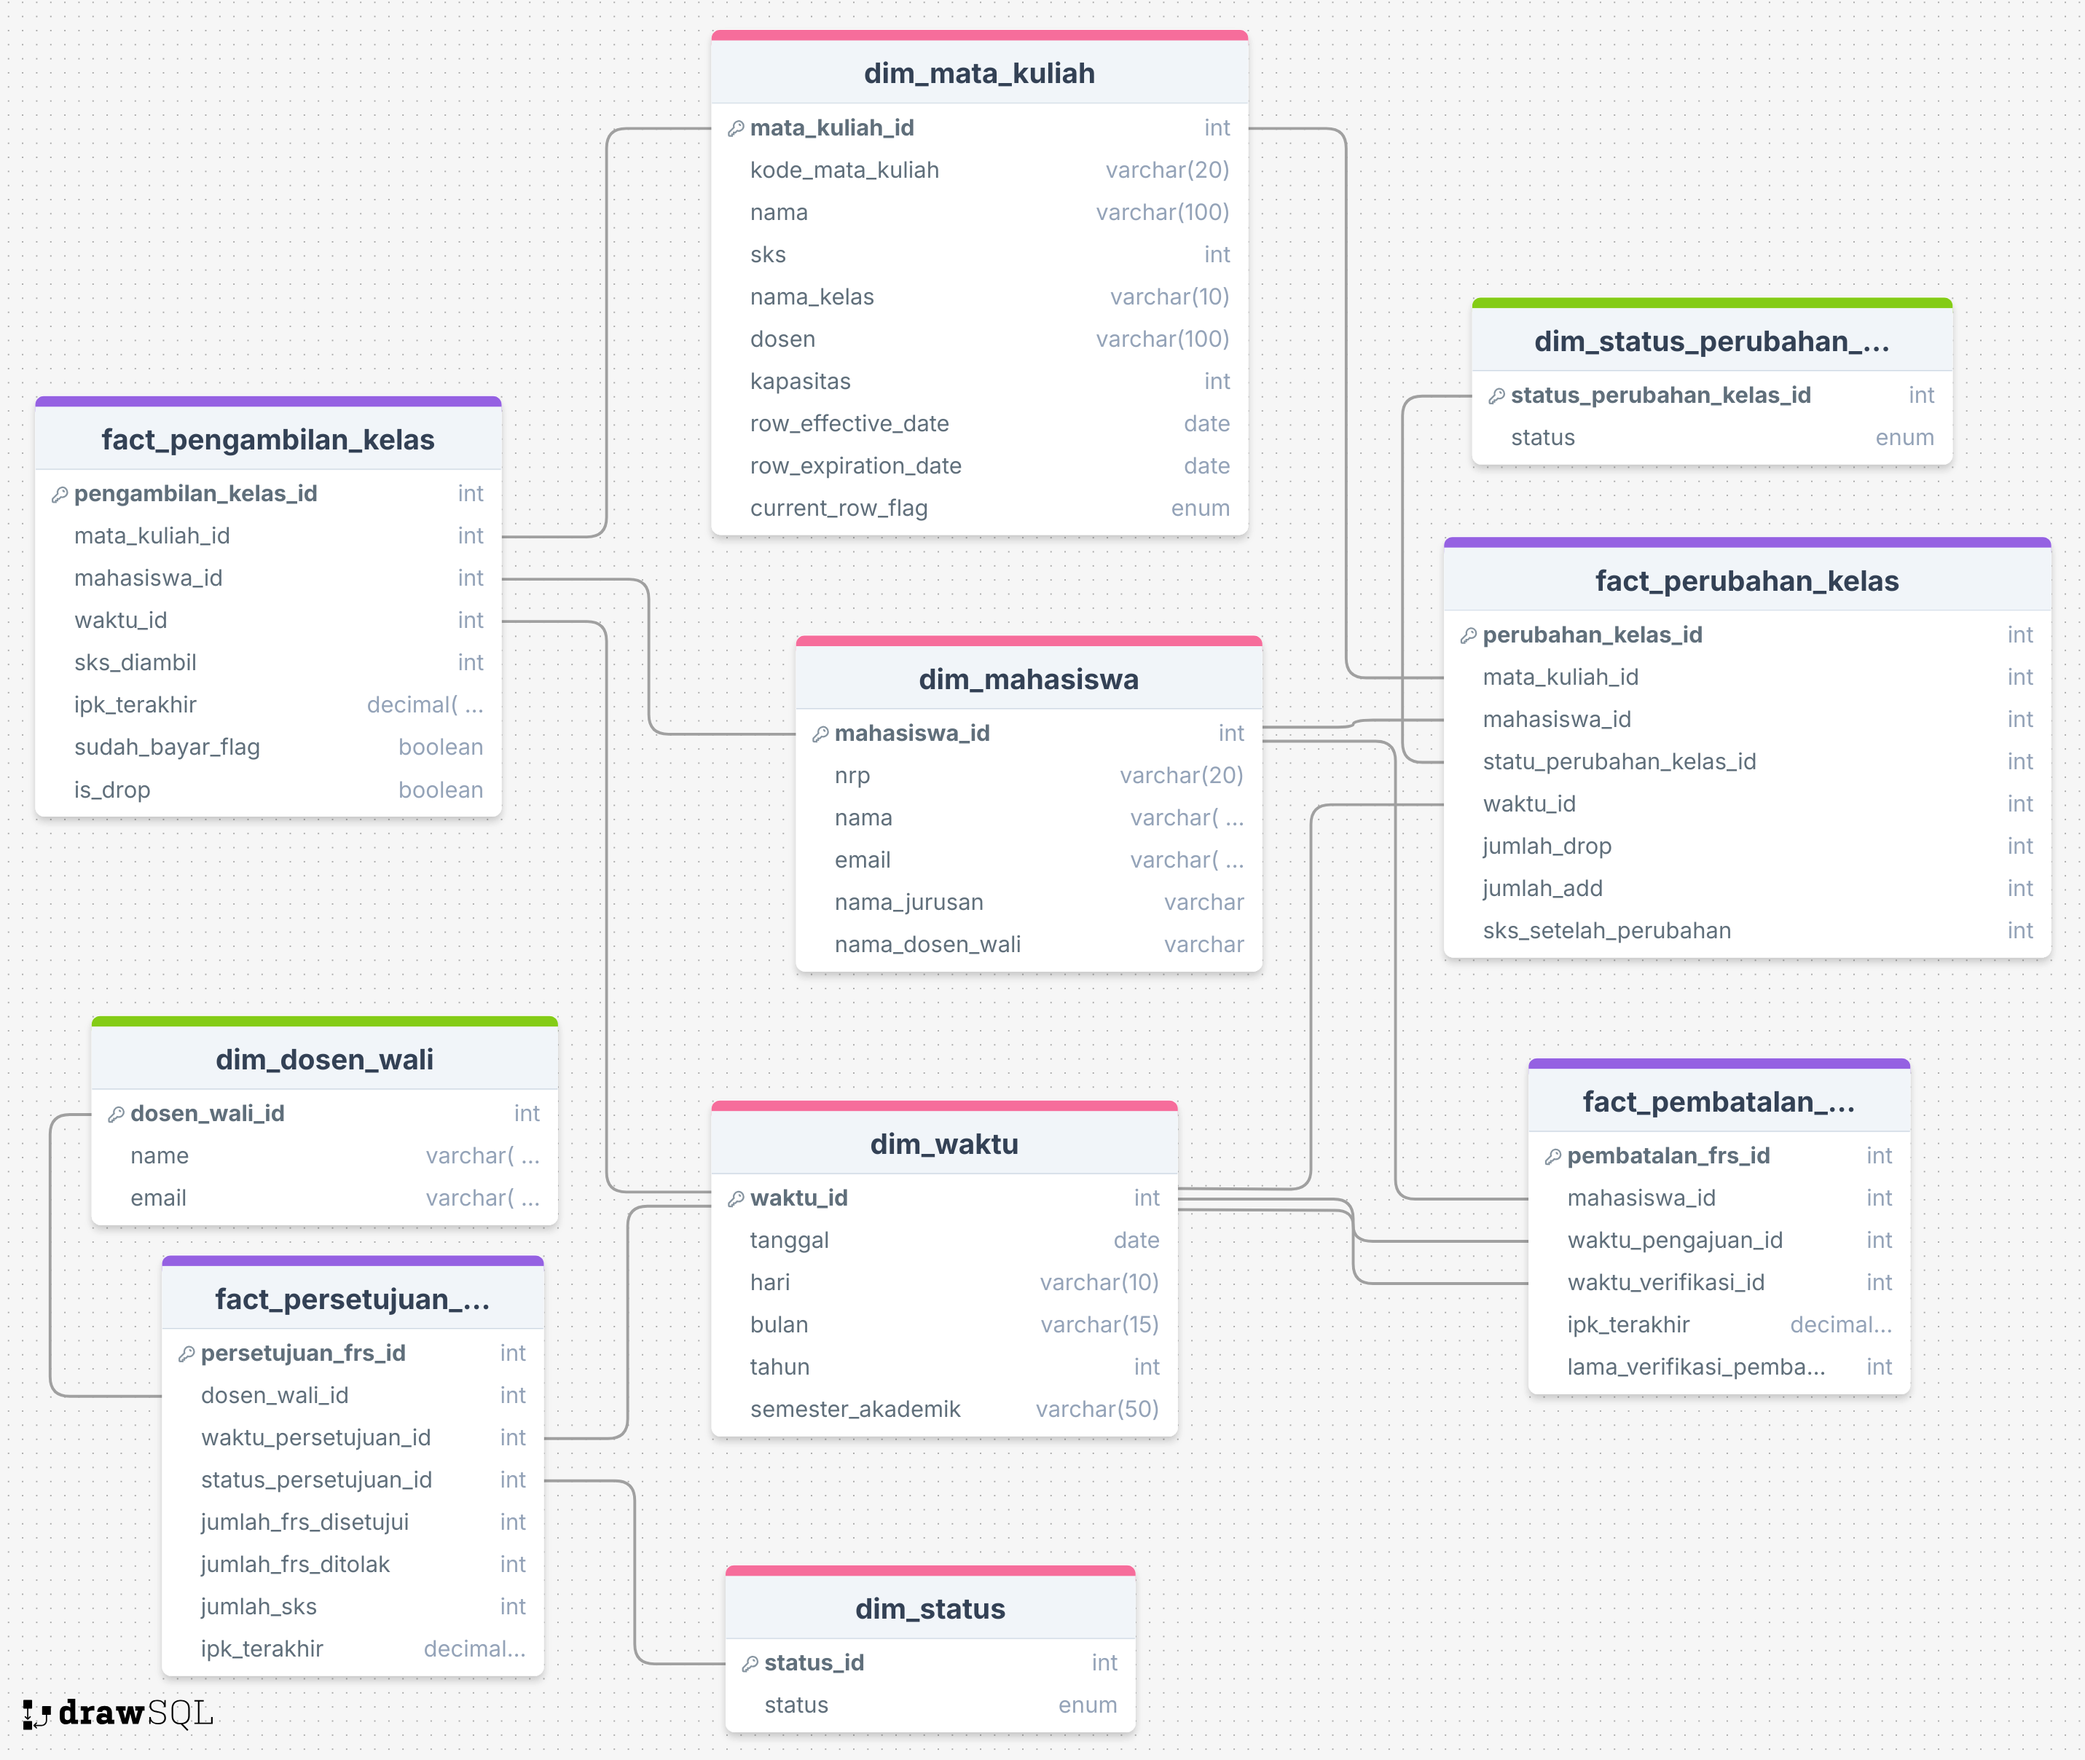
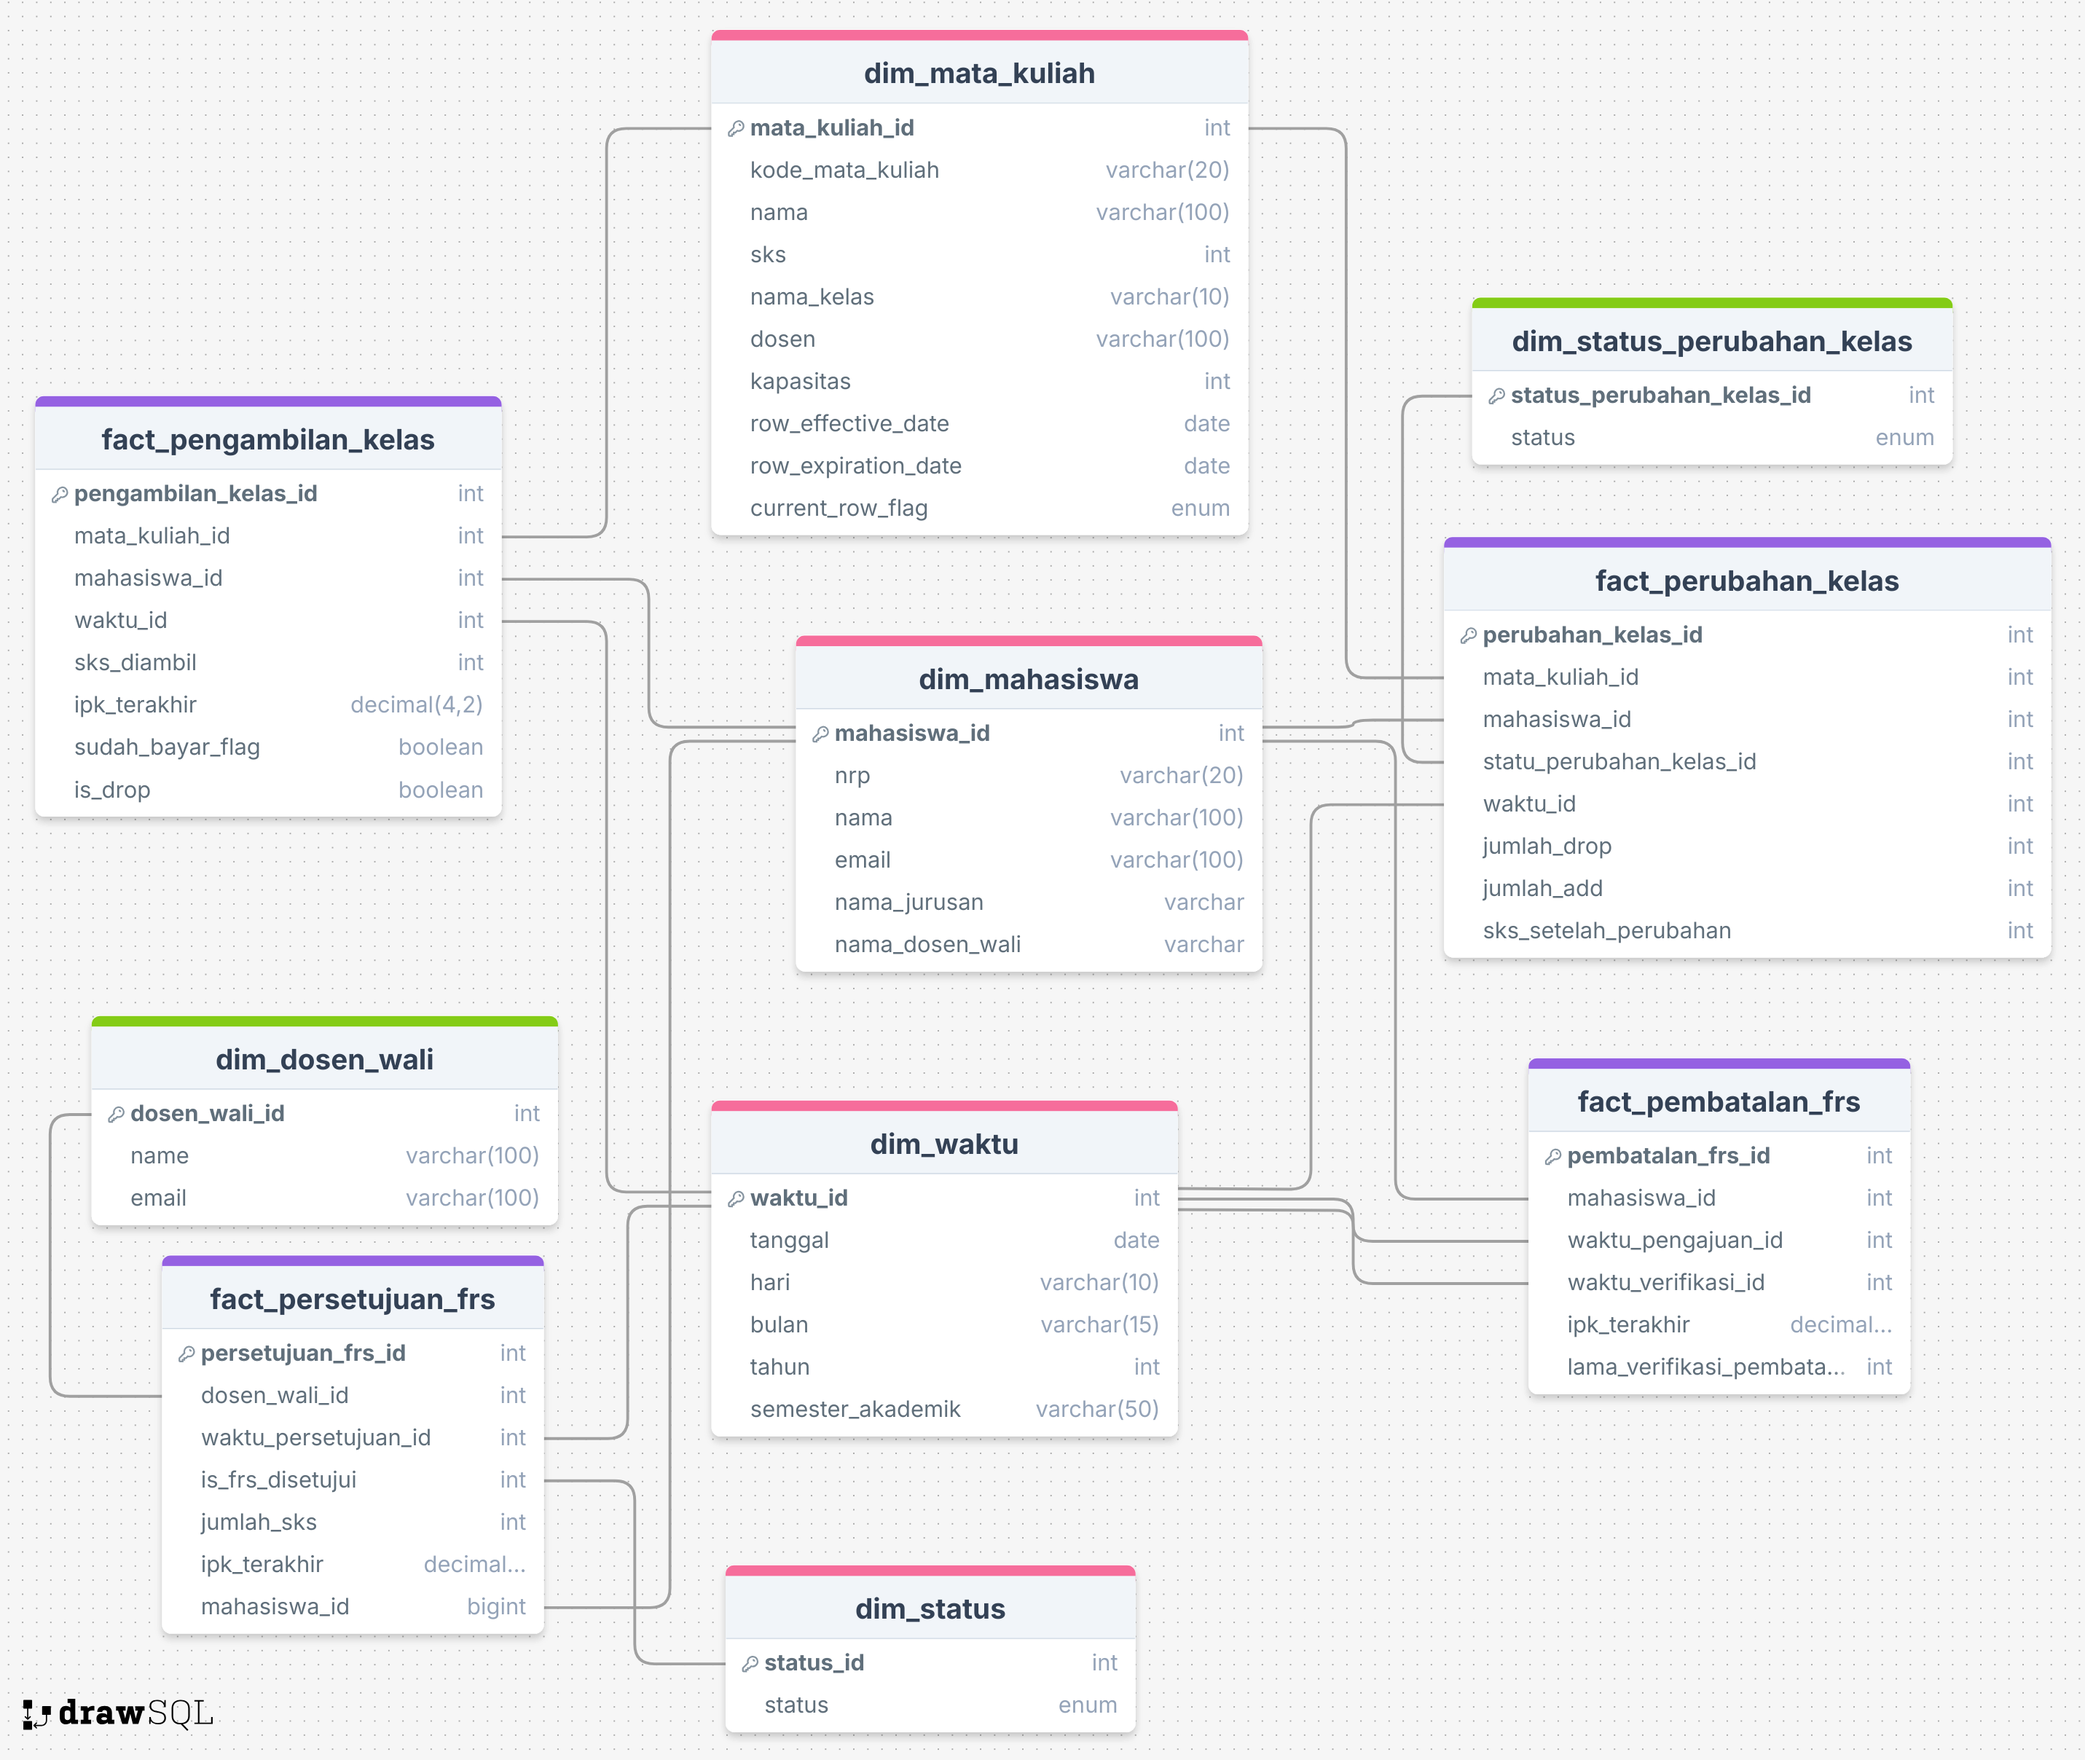
feat: fact persetujuan frs and update picts

diff --git a/one_time_incremental/fact_persetujuan_frs.py b/one_time_incremental/fact_persetujuan_frs.py
@@ -17,18 +17,51 @@ def extract_dim(name):
     print(f"[EXTRACT DIM] {name}")
     return pd.read_sql(f"SELECT * FROM {name}", target_engine)
 
-def get_max_id(table, col):
-    df = pd.read_sql(f"SELECT MAX({col}) AS max_id FROM {table}", target_engine)
-    return int(df['max_id'][0]) if df['max_id'][0] is not None else 0
+def get_max_waktu_date_from_fact():
+    """
+    Cari tanggal maksimum (date-only) yang sudah ada di fact_persetujuan_frs.
+    Caranya: Ambil max(waktu_persetujuan_id) lalu lookup di dim_waktu.
+    Jika belum ada row di fact, kembalikan None.
+    """
+    sql = """
+        SELECT f.waktu_persetujuan_id
+        FROM fact_persetujuan_frs AS f
+        ORDER BY f.waktu_persetujuan_id DESC
+        LIMIT 1
+    """
+    df = pd.read_sql(sql, target_engine)
+    if df.empty:
+        return None
+
+    max_waktu_id = int(df.at[0, 'waktu_persetujuan_id'])
+    # Sekarang ambil tanggal_date di dim_waktu untuk max_waktu_id
+    sql2 = f"""
+        SELECT tanggal AS tanggal_full
+        FROM dim_waktu
+        WHERE waktu_id = {max_waktu_id}
+        LIMIT 1
+    """
+    df2 = pd.read_sql(sql2, target_engine)
+    if df2.empty:
+        return None
+
+    # Normalize → ambil date saja
+    ts = pd.to_datetime(df2.at[0, 'tanggal_full']).normalize()
+    print(f"[WATERMARK] Last loaded tanggal_date di fact = {ts.date()}")
+    return ts
 
 # === TRANSFORM ===
-def transform(
+def transform_incremental(
     df_frs, df_mhs_raw, df_log, df_detail, df_kelas,
-    df_nilai, df_dim_mhs, df_dim_waktu
+    df_nilai, df_dim_mhs, df_dim_waktu, watermark_date
 ):
-    print("[TRANSFORM] fact_persetujuan_frs")
+    """
+    Sama seperti transform() sebelumnya, tapi cuma proses baris log_frs di atas watermark_date.
+    watermark_date: pd.Timestamp (date-only) atau None (jika full load).
+    """
+    print("[TRANSFORM-INC] fact_persetujuan_frs")
 
-    # 1) Format kolom NRP dan ubah log.tanggal → datetime
+    # 1) Format NRP dan ubah log.tanggal jadi datetime + buat tanggal_date
     df_frs['nrp']        = df_frs['nrp'].astype(str)
     df_mhs_raw['nrp']    = df_mhs_raw['nrp'].astype(str)
     df_nilai['nrp']      = df_nilai['nrp'].astype(str)
@@ -36,9 +69,24 @@ def transform(
     df_log['tanggal']    = pd.to_datetime(df_log['tanggal'])
     df_dim_waktu['tanggal'] = pd.to_datetime(df_dim_waktu['tanggal'])
 
-    # 2) Tambahkan kolom date‐only (strip jam, menit, detik)
     df_log['tanggal_date']      = df_log['tanggal'].dt.normalize()
     df_dim_waktu['tanggal_date'] = df_dim_waktu['tanggal'].dt.normalize()
+
+    # 2) Jika watermark_date tidak None, filter hanya log_frs setelah tanggal itu
+    if watermark_date is not None:
+        mask_new = df_log['tanggal_date'] > watermark_date
+        df_log = df_log[mask_new].copy()
+        print(f"[FILTER] Baris log_frs setelah {watermark_date.date()} = {len(df_log)}")
+        if df_log.empty:
+            print("[TRANSFORM-INC] Tidak ada data baru di log_frs → skip transform")
+            return pd.DataFrame(columns=[
+                'persetujuan_frs_id',
+                'mahasiswa_id',
+                'dosen_wali_id',
+                'waktu_persetujuan_id',
+                'is_frs_disetujui',
+                'jumlah_sks',
+            ])
 
     # 3) Merge untuk dapatkan mahasiswa_id & dosen_wali_id
     df = df_frs.merge(
@@ -49,25 +97,28 @@ def transform(
         on='nrp', how='left'
     )
 
-    # 4) Ambil log terakhir (per frs_id), sekaligus simpan tanggal_date
+    # 4) Ambil log terakhir *hanya untuk frs_id yang masuk df_log versi baru*
+    #    (df_log sudah berisi only new records)
     df_log_latest = (
         df_log
         .sort_values('tanggal')
         .drop_duplicates(subset='frs_id', keep='last')
         .rename(columns={'status': 'status_log'})
     )
-    # debug: cek beberapa tanggal_date unik di log dan di dim_waktu
-    print("[DEBUG] Unique tanggal_date di log_frs:", 
+    # debug: cek uniq tanggal_date (optional)
+    print("[DEBUG] Unique tanggal_date di log_frs (baru):", 
           df_log_latest['tanggal_date'].dt.strftime('%Y-%m-%d').unique()[:5], 
           "… total", df_log_latest['tanggal_date'].nunique())
     print("[DEBUG] Unique tanggal_date di dim_waktu:", 
           df_dim_waktu['tanggal_date'].dt.strftime('%Y-%m-%d').unique()[:5], 
           "… total", df_dim_waktu['tanggal_date'].nunique())
 
+    # Gabungkan log terbaru ke main df → tapi kita butuh data FR S‐nya
     df = df.merge(
         df_log_latest[['frs_id', 'status_log', 'tanggal_date']],
-        left_on='id', right_on='frs_id', how='left'
+        left_on='id', right_on='frs_id', how='inner'
     )
+    # catatan: pakai how='inner' supaya hanya FRS yang ada di df_log_latest
 
     # 5) Merge ke dim_waktu berdasarkan tanggal_date
     df = df.merge(
@@ -103,16 +154,22 @@ def transform(
     )
     df['jumlah_sks'] = df['jumlah_sks'].fillna(0).astype(int)
 
+    # 8) IPK default (tanpa perhitungan semester)
+    df['ipk_terakhir'] = 0
 
-    # 9) Filter baris yang berhasil match ke dim_waktu
-    #    (agar waktu_persetujuan_id tidak null)
+    # 9) Filter baris yang match ke dim_waktu (waktu_persetujuan_id must not null)
     df = df[df['waktu_persetujuan_id'].notna()]
 
-    # 10) Generate surrogate key persetujuan_frs_id
-    last_id = get_max_id('fact_persetujuan_frs', 'persetujuan_frs_id')
-    df['persetujuan_frs_id'] = range(last_id + 1, last_id + 1 + len(df))
+    # 10) Generate surrogate key (incremental)
+    last_id = get_max_waktu_date_from_fact()
+    # get_max_waktu_date_from_fact() sudah diambil di luar. Kita perlu ID, bukan tanggal.
+    # Kita bisa panggil lagi untuk ID langsung:
+    sql_max_id = "SELECT MAX(persetujuan_frs_id) AS last_id FROM fact_persetujuan_frs"
+    df_lastid = pd.read_sql(sql_max_id, target_engine)
+    prev_id = int(df_lastid.at[0, 'last_id']) if not df_lastid.empty and pd.notna(df_lastid.at[0, 'last_id']) else 0
+    df['persetujuan_frs_id'] = range(prev_id + 1, prev_id + 1 + len(df))
 
-    # 11) Pilih kolom final sesuai DDL
+    # 11) Pilih kolom final
     df_final = df[[
         'persetujuan_frs_id',
         'mahasiswa_id',
@@ -126,6 +183,9 @@ def transform(
 
 # === LOAD ===
 def load_table(df, table_name):
+    if df.empty:
+        print(f"[LOAD] {table_name} → tidak ada record baru (0 baris)")
+        return
     print(f"[LOAD] {table_name} → {len(df)} baris")
     df.to_sql(
         table_name,
@@ -134,9 +194,12 @@ def load_table(df, table_name):
         index=False
     )
 
-# === MAIN ETL ===
-def run_etl():
-    # Extract dari source OLTP
+# === MAIN ETL INCREMENTAL ===
+def run_etl_incremental():
+    # 1) Bentuk watermark_date dari fact
+    watermark_date = get_max_waktu_date_from_fact()  # pd.Timestamp (date-only) atau None
+
+    # 2) Extract semua source
     df_frs       = extract_table("frs")
     df_mhs_raw   = extract_table("mahasiswa")
     df_log       = extract_table("log_frs")
@@ -144,18 +207,18 @@ def run_etl():
     df_kelas     = extract_table("kelas")
     df_nilai     = extract_table("nilai_mahasiswa")
 
-    # Extract dimensi (OLAP)
+    # 3) Extract dimensi
     df_dim_mhs   = extract_dim("dim_mahasiswa")
     df_dim_waktu = extract_dim("dim_waktu")
 
-    # Transformasi
-    df_fact = transform(
+    # 4) Transform incremental
+    df_fact_new = transform_incremental(
         df_frs, df_mhs_raw, df_log, df_detail, df_kelas,
-        df_nilai, df_dim_mhs, df_dim_waktu
+        df_nilai, df_dim_mhs, df_dim_waktu, watermark_date
     )
 
-    # Load ke fact_persetujuan_frs
-    load_table(df_fact, 'fact_persetujuan_frs')
+    # 5) Load hasil incremental
+    load_table(df_fact_new, 'fact_persetujuan_frs')
 
 if __name__ == "__main__":
-    run_etl()
+    run_etl_incremental()
